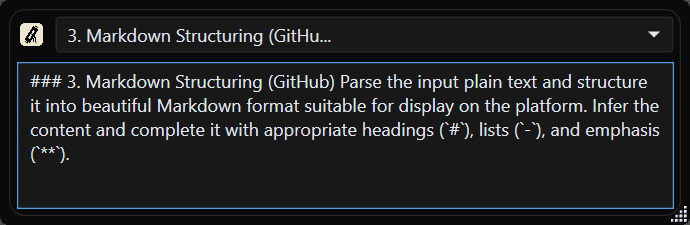
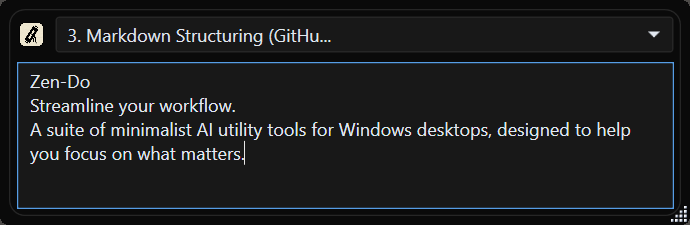
docs: update README to reflect latest features up to v1.2

diff --git a/README.ja.md b/README.ja.md
@@ -7,8 +7,9 @@
 [![License](https://img.shields.io/badge/License-Freemium-blue.svg)]()
 [![Download](https://img.shields.io/badge/Download-Latest%20Release-orange.svg)](https://github.com/saka-guchi/zen-clip-dev/releases/latest)
 
-**ZenClip** は、Windowsのタスクトレイに常駐するAI搭載のクリップボードマネージャーです。
-ローカル環境の **Gemini CLI** または **GitHub Copilot CLI** と連携し、作業の手を止めることなく、クリップボードのテキストをカスタムプロンプトで瞬時に処理します。
+**ZenClip** は、Windowsのタスクトレイに常駐するAI搭載のテキスト処理アシスタントです。
+ローカル環境の **Gemini CLI** または **GitHub Copilot CLI** と連携し、作業の手を止めることなく、**あらゆるテキスト**をカスタムプロンプトで瞬時にAI処理します。
+コピーしたテキストをそのまま渡すことも、自分の言葉を直接入力することも、どちらも一つのショートカットキーで完結します。
 
 **基本無料（機能制限あり）** でご利用いただけます。PolarでProライセンスを購入いただくことで、すべての機能が解放されます。
 
@@ -32,12 +33,14 @@
 - **瞬時のAI処理**: テキストをコピーしてショートカットキー（デフォルト: `Ctrl + Shift + C`）を押すだけで、AIがバックグラウンドで処理を実行します。
 - **プロンプトウィンドウ**: `Ctrl + Shift + P` でウィンドウを開き、プロンプトをリストから選ぶか、テキストをその場で直接入力して `Enter` キーで処理を実行します。まだコピーしていない、頭の中にある文章をそのままAIに渡したいときに便利です。
   ![QuickInputWindow](assets/QuickInputWindow.ja.png)
+- **プロンプトチェーン**: 複数のプロンプトを順番に連結して実行できます。前のステップのAI出力が次のステップの入力として引き継がれ、複雑な変換処理を自動化できます。
 - **マルチエンジン対応**: Gemini CLI だけでなく、GitHub Copilot CLI もエンジンとして選択可能です。
 - **邪魔にならない設計**: タスクトレイに静かに常駐。処理中は極小のOSDが表示され、完了は通知でお知らせします。
-- **カスタムプロンプト**: 用途に合わせたAIへの指示（プロンプト）を自由に追加・管理できます。
+- **カスタムプロンプト**: 用途に合わせたAIへの指示（プロンプト）を自由に追加・管理できます。インポート/エクスポートにも対応しています。
   ![Prompt Editor](assets/PromptWindow.ja.png)
-- **履歴管理**: AIの応答を自動保存。履歴ウィンドウから過去の結果を確認・再利用したり、複数選択して一括削除することが可能です。
+- **履歴管理**: AIの応答を自動保存。履歴ウィンドウから過去の結果を確認・再利用したり、キーワード検索やステータスフィルターで絞り込んだり、複数選択して一括削除することが可能です。
   ![History](assets/HistoryWindow.ja.png)
+- **自動アップデート**: 新しいバージョンが公開されると自動で検出し、ワンクリックで更新できます。
 - **多言語対応**: UIは英語と日本語に対応（OSの言語設定に合わせて自動で切り替わります）。
 
 ### ショートカットキー一覧
@@ -66,6 +69,7 @@
 | :--- | :--- | :--- | :--- |
 | **制限** | プロンプト登録数 | 最大 3 つ | **無制限** |
 | **制限** | 履歴保持件数 | 最大 20 件 | **無制限** |
+| **AIエンジン** | エンジン選択 (Gemini/Copilot) | **選択可能** | **選択可能** |
 | **AIモデル** | モデル個別指定 | デフォルト固定 | **個別選択可能** |
 
 ### Pro版ライセンスの購入
@@ -93,6 +97,27 @@
 1. ショートカット **`Ctrl + Shift + P`** を押してウィンドウを開きます。
 2. プロンプトをリストから選ぶか、テキストボックスに直接入力します。
 3. **`Enter`** キーを押すと処理が開始され、結果はクリップボードに届きます。
+
+### 4. プロンプトチェーンを使う
+1. **プロンプトエディタ**で、複数のプロンプトをステップとして登録したチェーンを作成します。
+2. プロンプトウィンドウ（`Ctrl + Shift + P`）のドロップダウンからチェーンを選択します。
+3. テキストを入力して `Enter` を押すと、定義した順番でAIが連続処理します。
+
+---
+
+## ⚙ 主な設定項目
+
+設定画面（タスクトレイアイコンを右クリック → 設定）から以下の項目を変更できます。
+
+| 設定項目 | 説明 |
+| :--- | :--- |
+| **ショートカットキー** | クリップボード処理・プロンプトウィンドウ起動のホットキーをカスタマイズ |
+| **AI処理の割り込み設定** | 処理中に再度ホットキーを押したとき、**最新を実行**（現在の処理をキャンセルして新しい入力で再実行）か **順番に実行**（キューに追加して順次実行）かを選択 |
+| **AIエンジン** | `Gemini` または `GitHub Copilot` を選択 |
+| **モデルの選択** | 使用するAIモデルを個別指定（Pro版限定） |
+| **自動コピー** | AI応答を自動的にクリップボードへコピーするかどうか |
+| **スタートアップ実行** | Windows起動時にアプリを自動実行するかどうか |
+| **通知の表示時間** | トースト通知が自動的に閉じるまでの時間（秒）。0で自動閉鎖なし |
 
 ---
 
